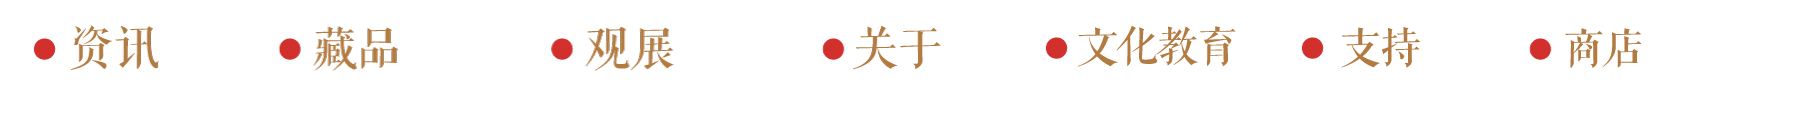
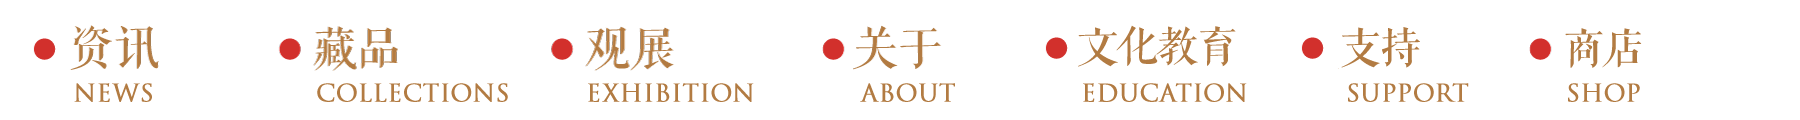
update language

diff --git a/wp-content/themes/yuchengtang/style-desktop.scss b/wp-content/themes/yuchengtang/style-desktop.scss
@@ -32,28 +32,29 @@ body.category {
 	.menu {
 		position:absolute;top:55px;right:0px
 	}	
-	.menu li {background-size:900px 60px;background-repeat:no-repeat;float:left;width:105px}
+	.menu li {background-size:900px 60px;background-repeat:no-repeat;float:left;width:110px}
 	.menu li[class~=text] {
 		& {background-image:url('assets/images/menu-cn.png');}
-		a {display:inline-block;width:105px;height:45px}
+		a {display:inline-block;width:250px;height:60px}
 	}
 	.menu li[class~=text]:hover, .menu li[class~=text].active {
 		background-image:url('assets/images/menu-cn-active.png');
 	}	
 	.menu li .sub-menu {display:none;z-index:10000;font-size:16px;padding-left:0px}	
 	.menu li:hover .sub-menu {display:block}
-	.sub-menu li {line-height:30px;height:30px;text-align:center;float:none;clear:both}
+	.sub-menu li {line-height:30px;height:30px;text-align:left;float:none;clear:both}
 	.sub-menu li a:hover {color:#AE773E}
 	.menu li {
-		&.antiques {background-position:-122px 0px}
-		&.tickets {background-position:-260px 0px}
-		&.tickets .sub-menu {margin-left:0px}
+		&.news {width:90px}
+		&.antiques {background-position:-122px 0px;width:125px}
+		&.tickets {background-position:-260px 0px;width:125px}
+		&.tickets .sub-menu {margin-left:35px}
 		&.about {background-position:-395px 0px}
 		&.culture {background-position:-515px 0px}
-		&.culture .sub-menu {margin-left:5px}
+		&.culture .sub-menu {margin-left:28px}
 		&.support {background-position:-625px 0px}
-		&.support .sub-menu {margin-left:15px}
-		&.shop {background-position:-745px 0px}
+		&.support .sub-menu {margin-left:50px}
+		&.shop {background-position:-745px 0px;width:90px}
 	}
 	
 	.menu li.search a {margin-top:20px;margin-left:30px;display:inline-block;background-image:url('assets/images/icon-search.png');background-repeat:no-repeat;background-size:cover;height:20px;width:20px}
@@ -77,7 +78,7 @@ body.category {
 		display:inline-block;padding:8px 50px;font-size:16px;background:#AE773E;color:white;border-radius:-5px
 	}
 	
-	#slides {position:absolute;top:180px;width:100%;}
+	#slides {position:absolute;top:180px;width:100%;margin-top:30px}
 	#slides .wrapper {text-align:center}
 	.bg {background-image:url('assets/images/frontpage-bg.jpg')}		
 	.content {	
@@ -521,7 +522,7 @@ body.category {
 		}		
 	}
 	.notice {
-		& {float:right;height: 750px;width: 400px;background-image:url('assets/images/tickets-notice-bg.jpg');padding:15px;line-height:1.6}
+		& {float:right;height: 850px;width: 400px;background-image:url('assets/images/tickets-notice-bg.jpg');padding:15px;line-height:1.6}
 		h2 {font-size:18px;padding-top:15px;margin-bottom:5px;border-top:1px solid #7f7f7f;color:#AA773E}
 		strong {color:#AA773E}
 	}

diff --git a/wp-content/themes/yuchengtang/style-desktop.css b/wp-content/themes/yuchengtang/style-desktop.css
@@ -46,15 +46,15 @@ body.category #nav-divider {
   background-size: 900px 60px;
   background-repeat: no-repeat;
   float: left;
-  width: 105px; }
+  width: 110px; }
 
 #nav .menu li[class~=text] {
   background-image: url("assets/images/menu-cn.png"); }
 
 #nav .menu li[class~=text] a {
   display: inline-block;
-  width: 105px;
-  height: 45px; }
+  width: 250px;
+  height: 60px; }
 
 #nav .menu li[class~=text]:hover, #nav .menu li[class~=text].active {
   background-image: url("assets/images/menu-cn-active.png"); }
@@ -71,21 +71,26 @@ body.category #nav-divider {
 #nav .sub-menu li {
   line-height: 30px;
   height: 30px;
-  text-align: center;
+  text-align: left;
   float: none;
   clear: both; }
 
 #nav .sub-menu li a:hover {
   color: #AE773E; }
 
+#nav .menu li.news {
+  width: 90px; }
+
 #nav .menu li.antiques {
-  background-position: -122px 0px; }
+  background-position: -122px 0px;
+  width: 125px; }
 
 #nav .menu li.tickets {
-  background-position: -260px 0px; }
+  background-position: -260px 0px;
+  width: 125px; }
 
 #nav .menu li.tickets .sub-menu {
-  margin-left: 0px; }
+  margin-left: 35px; }
 
 #nav .menu li.about {
   background-position: -395px 0px; }
@@ -94,16 +99,17 @@ body.category #nav-divider {
   background-position: -515px 0px; }
 
 #nav .menu li.culture .sub-menu {
-  margin-left: 5px; }
+  margin-left: 28px; }
 
 #nav .menu li.support {
   background-position: -625px 0px; }
 
 #nav .menu li.support .sub-menu {
-  margin-left: 15px; }
+  margin-left: 50px; }
 
 #nav .menu li.shop {
-  background-position: -745px 0px; }
+  background-position: -745px 0px;
+  width: 90px; }
 
 #nav .menu li.search a {
   margin-top: 20px;
@@ -161,7 +167,8 @@ body.category #nav-divider {
 .frontpage #slides {
   position: absolute;
   top: 180px;
-  width: 100%; }
+  width: 100%;
+  margin-top: 30px; }
 
 .frontpage #slides .wrapper {
   text-align: center; }
@@ -982,7 +989,7 @@ body.category #nav-divider {
 
 .page.reservation .notice {
   float: right;
-  height: 750px;
+  height: 850px;
   width: 400px;
   background-image: url("assets/images/tickets-notice-bg.jpg");
   padding: 15px;

diff --git a/wp-content/themes/yuchengtang/page-reservation.php b/wp-content/themes/yuchengtang/page-reservation.php
@@ -20,7 +20,8 @@ get_header();
 		</div>
 		 -->
 		<div class="info">
-			<div><img class="info-title" src="<?php echo get_template_directory_uri() ?>/assets/images/tickets-info-title.png" width="130"></div>
+			<div class="text-cn"><img class="info-title" src="<?php echo get_template_directory_uri() ?>/assets/images/tickets-info-title.png" width="130"></div>
+			<div class="text-en" style="font-size:20px;font-weight:bold;color:#AA773E;padding-left:10px">Reserve Information</div>
 			<div class="form row">
 				<?php if ($_GET['success'] == 1 && !empty(intval($_GET['post_id'])) && $post = get_post(intval($_GET['post_id']))):?>
 				<?php $reservation = json_decode($post->post_content, true)?>
@@ -55,52 +56,52 @@ get_header();
 					<div class="row">
 						<div class="input-field col s6">
 							<input id="name" type="text" name="name" class="validate">
-							<label for="name">预约人姓名<span class="required">*</span></label>
+							<label for="name"><span class="text-cn">预约人姓名</span><span class="text-en">Name</span><span class="required">*</span></label>
 						</div>
 						<div class="input-field col s6">
 							<input id="mobile" type="text" name="mobile" class="validate">
-							<label for="mobile">手机号码<span class="required">*</span></label>
+							<label for="mobile"><span class="text-cn">手机号码</span><span class="text-en">Tel</span><span class="required">*</span></label>
 						</div>
 					</div>
 					<div class="row">
 						<div class="input-field col s12">
 							<input id="id_no" type="text" name="id_no" class="validate">
-							<label for="id_no">身份证号<span class="required">*</span></label>
+							<label for="id_no"><span class="text-cn">身份证号</span><span class="text-en">ID No</span><span class="required">*</span></label>
 						</div>
 					</div>
 					<div class="row static">
 						<div class="col s12 title">
-	          				参观类型<span class="required">*</span>
+	          				<span class="text-cn">参观类型</span><span class="text-en"></span>Forms<span class="required">*</span>
 						</div>
 						<div class="col s12">
 							<label class="checkbox">
 						        <input value="group" class="with-gap" name="reserve_type" type="radio"  />
-						        <span>团体</span>
+						        <span><span class="text-cn">团体</span><span class="text-en">Group</span></span>
 						     </label>
 						     <label class="checkbox">
 						        <input value="individual" class="with-gap" name="reserve_type" type="radio"  />
-						        <span>散客</span>
+						        <span><span class="text-cn">散客</span><span class="text-en">Individual Visitors</span></span>
 						     </label>
 						 </div>
 					</div>
 					<div class="row">
 						<div class="input-field col s12">
 							<input id="reserve_number" min="1" name="reserve_number" type="number" class="validate">
-							<label for="reserve_number">参观人数<span class="required">*</span></label>
+							<label for="reserve_number"><span class="text-cn">参观人数</span><span class="text-en">Visitors Number</span><span class="required">*</span></label>
 						</div>
 					</div>
 					<div class="row static">
 						<div class="col s12 title">
-	          				参观时间<span class="required">*</span>
+	          				<span class="text-cn">参观时间</span><span class="text-en">Reservation Time<span class="required">*</span>
 						</div>
 						<div class="col s12">
 							<label class="checkbox">
 						        <input class="with-gap" value="morning" name="reserve_time" type="radio"  />
-						        <span>上午</span>
+						        <span><span class="text-cn">上午</span><span class="text-en">Morning</span></span>
 						     </label>
 						     <label class="checkbox">
 						        <input class="with-gap" value="afternoon" name="reserve_time" type="radio"  />
-						        <span>下午</span>
+						        <span><span class="text-cn">下午</span><span class="text-en">Afternoon</span></span>
 						     </label>
 						 </div>
 						 <?php
@@ -134,7 +135,7 @@ get_header();
 					<div class="row">
 						<div class="input-field col s6">
 							<input id="_verify_code" type="text" name="_verify_code" class="validate">
-							<label for="_verify_code">验证码<span class="required">*</span></label>
+							<label for="_verify_code"><span class="text-cn">验证码</span><span class="text-en">Verification Code</span><span class="required">*</span></label>
 						</div>
 						<div class="col s6 verify-code">
 						<?php
@@ -147,26 +148,27 @@ get_header();
 						<img src="<?php echo $captchaData; ?>" valign="middle" width="80%" />
 						</div>
 					</div>
-					<a class="waves-effect waves-light btn" onclick="formSubmit()">预约</a>
+					<a class="waves-effect waves-light btn" onclick="formSubmit()"><span class="text-cn">预约</span><span class="text-en">Submit</span></a>
 				</form>
 				<?php endif;?>
 			</div>
 		</div>
 		<div class="notice">
-			<div><img class="notice-title" src="<?php echo get_template_directory_uri() ?>/assets/images/tickets-notice-title.png" width="130"></div>
-			<p style="margin-bottom:15px;margin-top:10px"><strong>票价：</strong><br>128元/张</p>
-			<p style="margin-bottom:15px"><strong>场馆地址：</strong><br>上海市浦东新区浦三路21弄55-56号银亿滨江中心17楼（和颐酒店旁右转）</p>
-			<p style="margin-bottom:15px"><strong>场馆电话：</strong><br>021-61553566</p>
-			<p><strong>开馆时间：</strong><br>周二至周六 10:00-16:30，周一、周日闭馆。</p>
-			<h2>参观须知</h2>
-			<p>1. 为了不妨碍、影响他人参观及展品安全，请勿在馆内拍照；</p>
-			<p>2. 为了您和他人的健康，请勿在馆内吸烟、乱扔垃圾、随地吐痰；</p>
-			<p>3. 请勿携带宠物进馆参观。</p>
-			<h2>优惠信息</h2>
-			<p>1. 70岁以上（含70岁）老年人凭有效证件，免费参观。</p>
-			<p>2. 身高1.2米以下儿童随监护人参观，门票半价优惠。</p>
-			<p>3. 残疾人凭残疾人证件，免费参观。</p>
-			<p>4. 随团导游凭本人导游证，免费参观。</p>
+			<div class="text-cn"><img class="notice-title" src="<?php echo get_template_directory_uri() ?>/assets/images/tickets-notice-title.png" width="130"></div>
+			<div class="text-en" style="font-size:20px;font-weight:bold;color:#AA773E">Ticketing Notice</div>
+			<p style="margin-bottom:15px;margin-top:10px"><strong><span class="text-cn">票价：</span><span class="text-en">Price:</span></strong><br><span class="text-cn">128元/张</span><span class="text-en">128 RMB</span></p>
+			<p style="margin-bottom:15px"><strong><span class="text-cn">场馆地址：</span><span class="text-en">Address:</span></strong><br>Address: 17th floor No55-56Lane, Pudong New District, Shanghai, China(Turn right next to the He Yi Hotel).</p>
+			<p style="margin-bottom:15px"><strong><span class="text-cn">场馆电话：</span><span class="text-en">Tel:</span></strong><br>021-61553566</p>
+			<p><strong><span class="text-cn">开馆时间：</span><span class="text-en">Opening Time:</span></strong><br><span class="text-cn">周二至周六 10:00-16:30，周一、周日闭馆。</span><span class="text-en">OPEN Tuesday - Sunday 10:00-16:30，<br/>CLOSED Sunday & Monday</span></p>
+			<h2><span class="text-cn">参观须知</span><span class="text-en">Visiting Notice</span></h2>
+			<p>1. <span class="text-cn">为了不妨碍、影响他人参观及展品安全，请勿在馆内拍照；</span><span class="text-en">Photography is not permitted for private.</span></p>
+			<p>2. <span class="text-cn">为了您和他人的健康，请勿在馆内吸烟、乱扔垃圾、随地吐痰；</span><span class="text-en">Smoking, littering and spitting is strictly forbidden inside the exhibition hall. </span></p>
+			<p>3. <span class="text-cn">请勿携带宠物进馆参观。</span><span class="text-en">No pets.</span></p>
+			<h2><span class="text-cn">优惠信息</span><span class="text-en">Concessional Terms</span></h2>
+			<p>1. <span class="text-cn">70岁以上（含70岁）老年人凭有效证件，免费参观。</span><span class="text-en">Free admission for seniors 70 years old and older with valid certificate or proof of age (passport, etc.)</span></p>
+			<p>2. <span class="text-cn">身高1.2米以下儿童随监护人参观，门票半价优惠。</span><span class="text-en">50% discount on concessions for children under 1.2 meters in height.</span></p>
+			<p>3. <span class="text-cn">残疾人凭残疾人证件，免费参观。</span><span class="text-en">Free admission for disabled visitors with personal disability certificate.</span></p>
+			<p>4. <span class="text-cn">随团导游凭本人导游证，免费参观。</span><span class="text-en">Free admission for accompanying guides with personal tourist certificate.</span></p>
 		</div>
 		<div class="clear"></div>
 		

diff --git a/wp-content/themes/yuchengtang/header.php b/wp-content/themes/yuchengtang/header.php
@@ -33,27 +33,27 @@
 				<a href="<?php echo site_url('archives/category/news')?>" title="资讯"><span class="mobile"><span class="text-cn">资讯</span><span class="text-en">NEWS</span></span></a>
 			</li>
 			<li class="antiques text">
-				<a href="<?php echo site_url('archives/category/antiques')?>" title="藏品"><span class="mobile"><span class="text-cn">藏品</span><span class="text-en">ANTIQUE</span></span></a>
+				<a href="<?php echo site_url('archives/category/antiques')?>" title="藏品"><span class="mobile"><span class="text-cn">藏品</span><span class="text-en">COLLECTIONS</span></span></a>
 			</li>
 			<li class="tickets text">
-				<a href="javascript:;" title="观展"><span class="mobile"><span class="text-cn">观展</span><span class="text-en">TICKETS</span></span></a>
+				<a href="javascript:;" title="观展"><span class="mobile"><span class="text-cn">观展</span><span class="text-en">EXBITIONS</span></span></a>
 				<ul class="sub-menu">
-					<li><a href="<?php echo site_url('reservation')?>">预约购票</a></li>
-					<li><a href="http://720yun.com/t/504j5zkmsk2" target="_blank">360全景展厅</a></li>
+					<li><a href="<?php echo site_url('reservation')?>"><span class="text-cn">预约购票</span><span class="text-en">Reservation</span></a></li>
+					<li><a href="http://720yun.com/t/504j5zkmsk2" target="_blank"><span class="text-cn">360全景展厅</span><span class="text-en">Panoramic Exhibition</span></a></li>
 				</ul>
 			</li>
 			<li class="culture text">
 				<a href="javascript:;" title="文化教育"><span class="mobile"><span class="text-cn">文化教育</span><span class="text-en">CLUTURE</span></span></a>
 				<ul class="sub-menu">
-					<li><a href="<?php echo site_url('books')?>">图书出版</a></li>
-					<li><a href="javascript:;">讲座课程</a></li>
+					<li><a href="<?php echo site_url('books')?>"><span class="text-cn">图书出版</span><span class="text-en">Press Releases</span></a></li>
+					<li><a href="javascript:;"><span class="text-cn">讲座课程</span><span class="text-en">Lectures  & Courses</span></a></li>
 				</ul>
 			</li>
 			<li class="support text">
-				<a href="javascript:;" title="支持"><span class="mobile"><span class="text-cn">支持</span><span class="text-en">SUPPORT</span></span></a>
+				<a href="javascript:;" title="支持"><span class="mobile"><span class="text-cn">支持</span><span class="text-en">SUPPORT US</span></span></a>
 				<ul class="sub-menu">
-					<li><a href="javascript:;">品牌活动</a></li>
-					<li><a href="javascript:;">赞助</a></li>
+					<li><a href="javascript:;"><span class="text-cn">品牌活动</span><span class="text-en">Brand Activities</span></a></li>
+					<li><a href="javascript:;"><span class="text-cn">赞助</span><span class="text-en">Sponsor Us</span></a></li>
 				</ul>
 			</li>
 			<li class="shop text">
@@ -63,7 +63,10 @@
 				<a href="<?php echo site_url('about')?>" title="关于"><span class="mobile"><span class="text-cn">关于</span><span class="text-en">ABOUT</span></span></a>
 			</li>
 			<li class="mobile joinus text">
-				<a href="<?php echo site_url('joinus')?>" title="加入我们"><span class="mobile"><span class="text-cn">加入我们</span><span class="text-en">ABOUT</span></span></a>
+				<a href="<?php echo site_url('joinus')?>" title="加入我们"><span class="mobile"><span class="text-cn">加入我们</span><span class="text-en">JOIN US</span></span></a>
+			</li>
+			<li class="mobile joinus text">
+				<a href="<?php echo site_url('about')?>#contactus" title="联系我们"><span class="mobile"><span class="text-cn">联系我们</span><span class="text-en">CONTACT US</span></span></a>
 			</li>
 			<li class="language text mobile text-cn">
 				<a href="<?php echo site_url()?>?lang=en" title="ENGLISH">ENGLISH</a>
@@ -129,7 +132,7 @@ jQuery(function($) {
 			});
 
 			mobileNavMenuAnime = anime.timeline();
-			for (var i=1; i <= 9; i++) {
+			for (var i=1; i <= 11; i++) {
 				mobileNavMenuAnime.add({
 					targets: '#nav .menu li:nth-child(' + i  + ')',
 					translateX: [150, 0],

diff --git a/wp-content/themes/yuchengtang/pages/frontpage.php b/wp-content/themes/yuchengtang/pages/frontpage.php
@@ -10,11 +10,14 @@
 	<div class="content wrapper">
 		<div class="tickets">
 			<h2 class="text-cn">预约观展</h2>
-			<h2 class="text-en">TICKETS</h2>
-			<p style="color:#A57239;margin-top:25px;margin-bottom:5px;font-size:18px;font-weight:bold">周二 ~ 周六<p>
+			<h2 class="text-en">EXHIBITIONS</h2>
+			<p style="color:#A57239;margin-top:25px;margin-bottom:5px;font-size:18px;font-weight:bold"><span class="text-cn">周二 ~ 周六</span><span class="text-en">OPEN Tuesday - Sunday</span><p>
 			<p style="color:#A57239;font-size:40px;font-family:Impact,Arial">10:00 ~ 16:30</p>
-			<p style="margin-top:5px;font-size:14px">（周日、周一闭馆 ）</p>
-			<p style="color:#3d5079;font-size:18px;margin-top:20px;border-top:1px dotted #999;padding-top:10px">上海市浦三路21弄55-56号银亿滨江中心17楼</p>
+			<p style="margin-top:5px;font-size:14px"><span class="text-cn">（周日、周一闭馆 ）</span><span class="text-en">CLOSED Sunday & Monday</span></p>
+			<p style="color:#3d5079;font-size:18px;margin-top:20px;border-top:1px dotted #999;padding-top:10px">
+				<span class="text-cn">上海市浦三路21弄55-56号银亿滨江中心17楼</span>
+				<span class="text-en" style="font-size:16px">17th floor No55-56Lane, Pudong New District, Shanghai, China (Turn right next to the He Yi Hotel). </span>
+			</p>
 			<div class="more">
 				<a class="btn" style="background:#3d5079" href="<?php echo site_url('reservation');?>"><span class="text-cn">预约</span><span class="text-en">Reserve</span></a>
 			</div>
